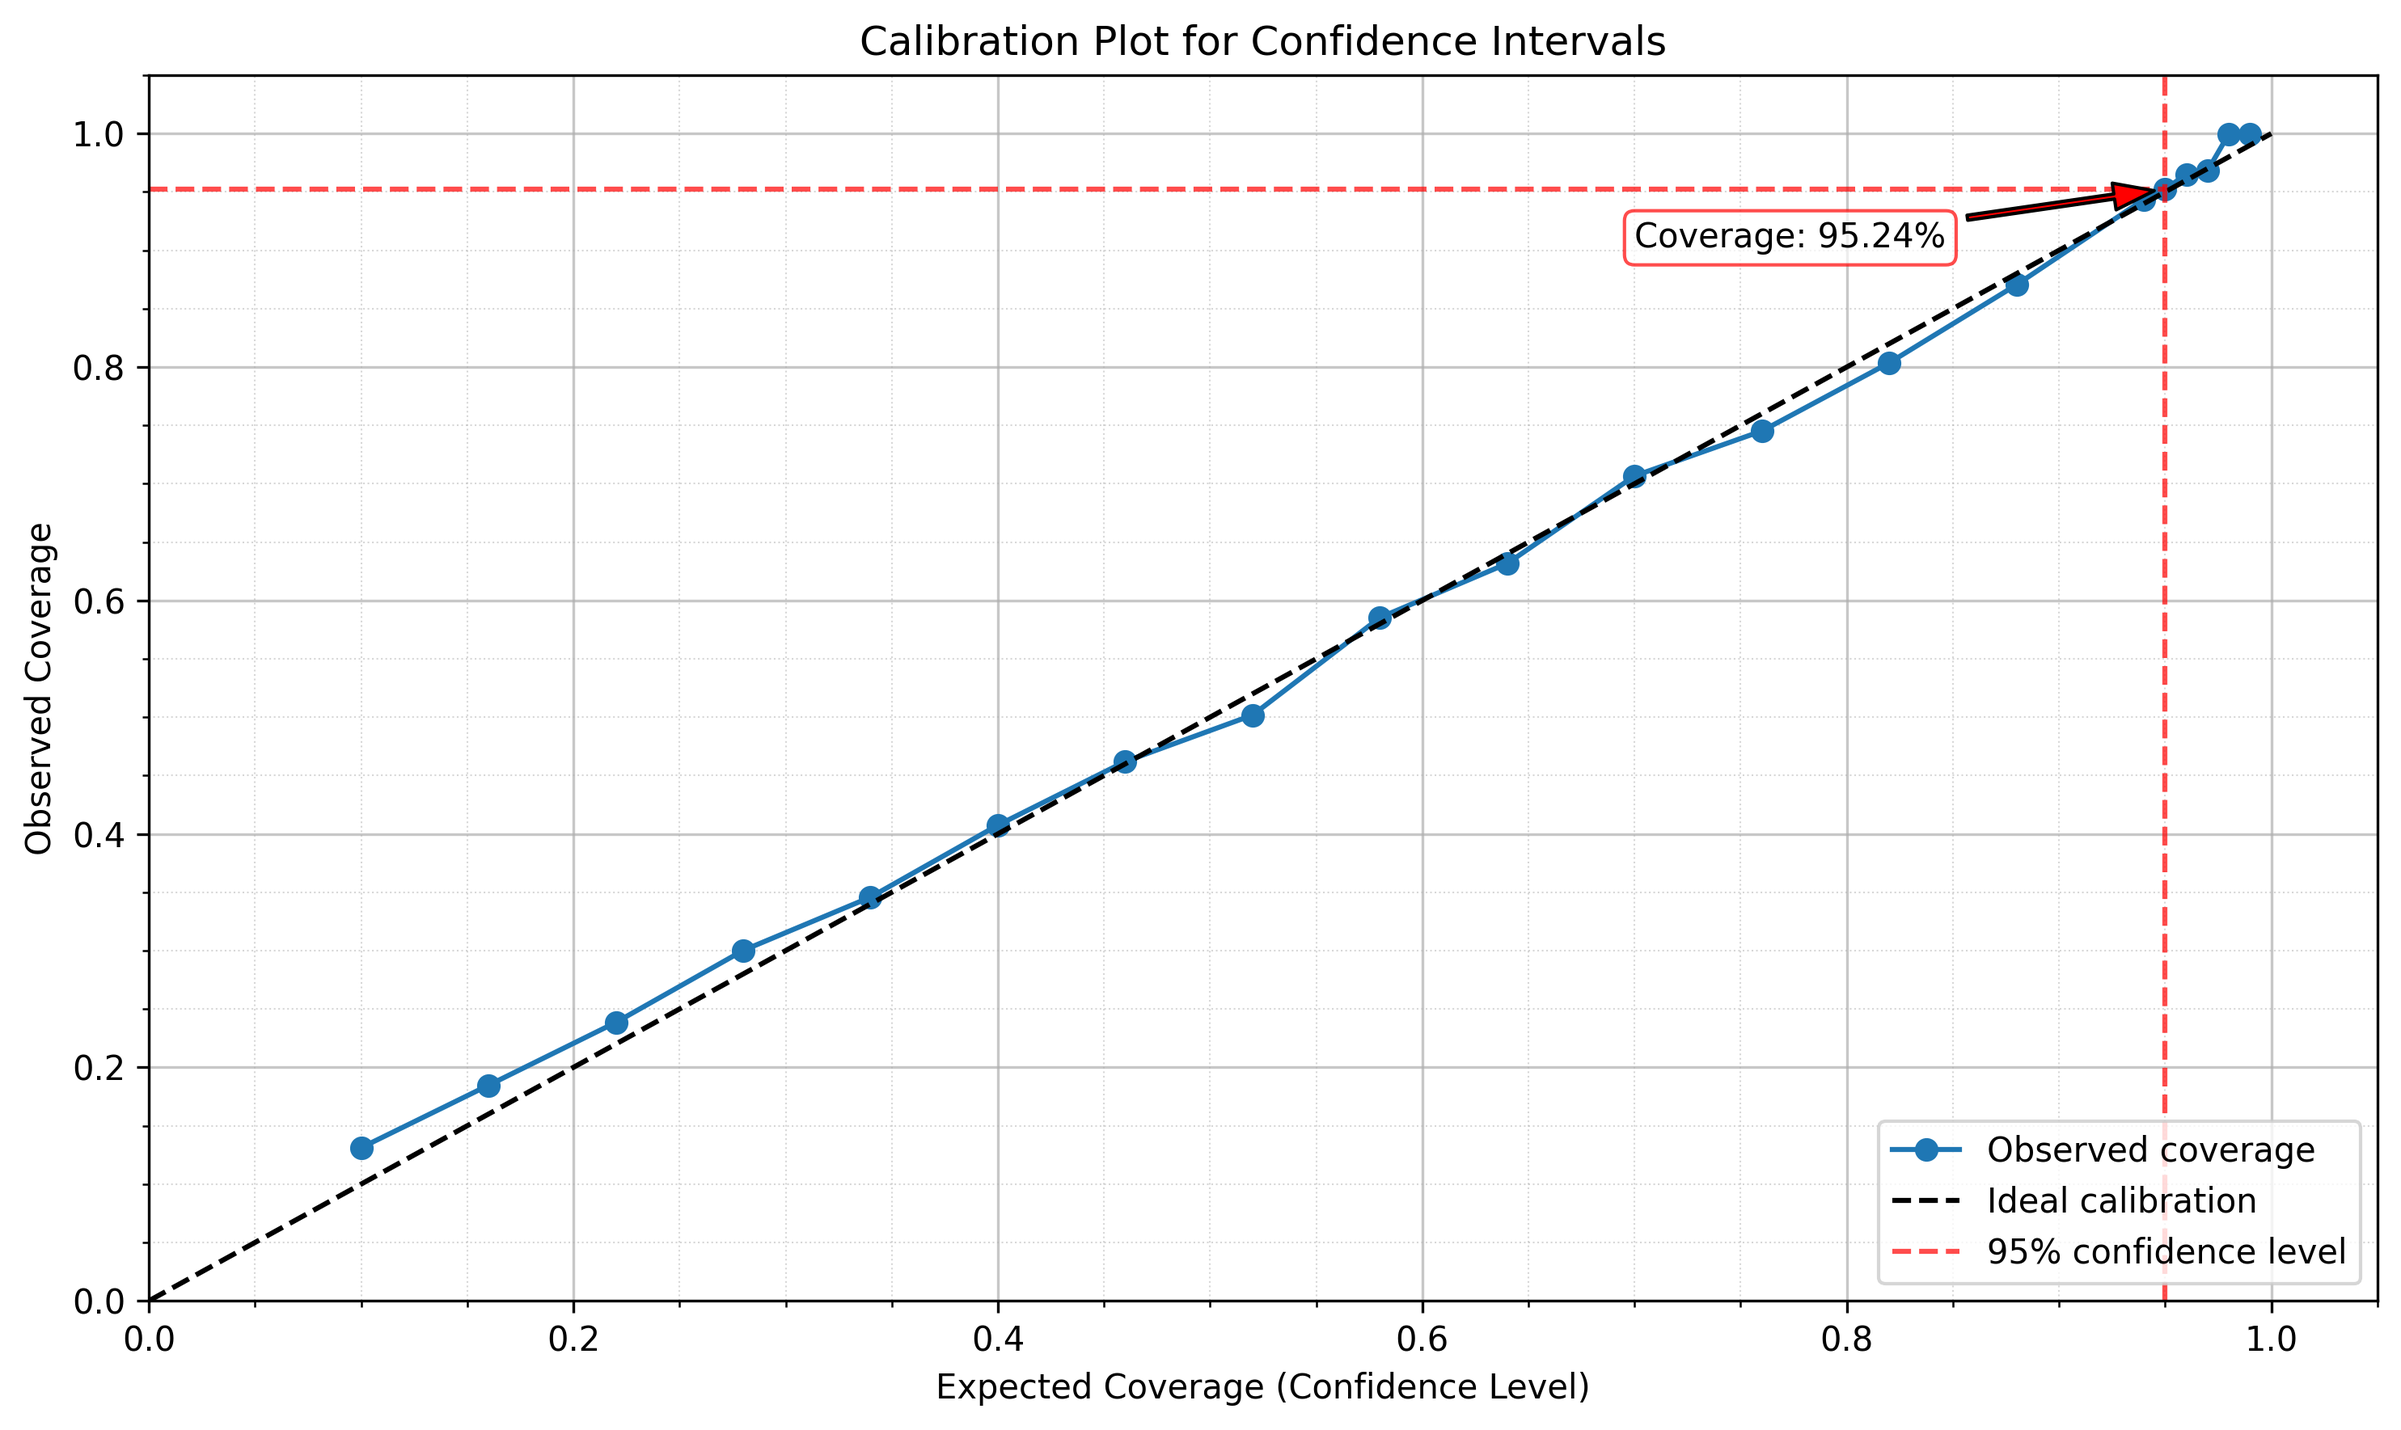
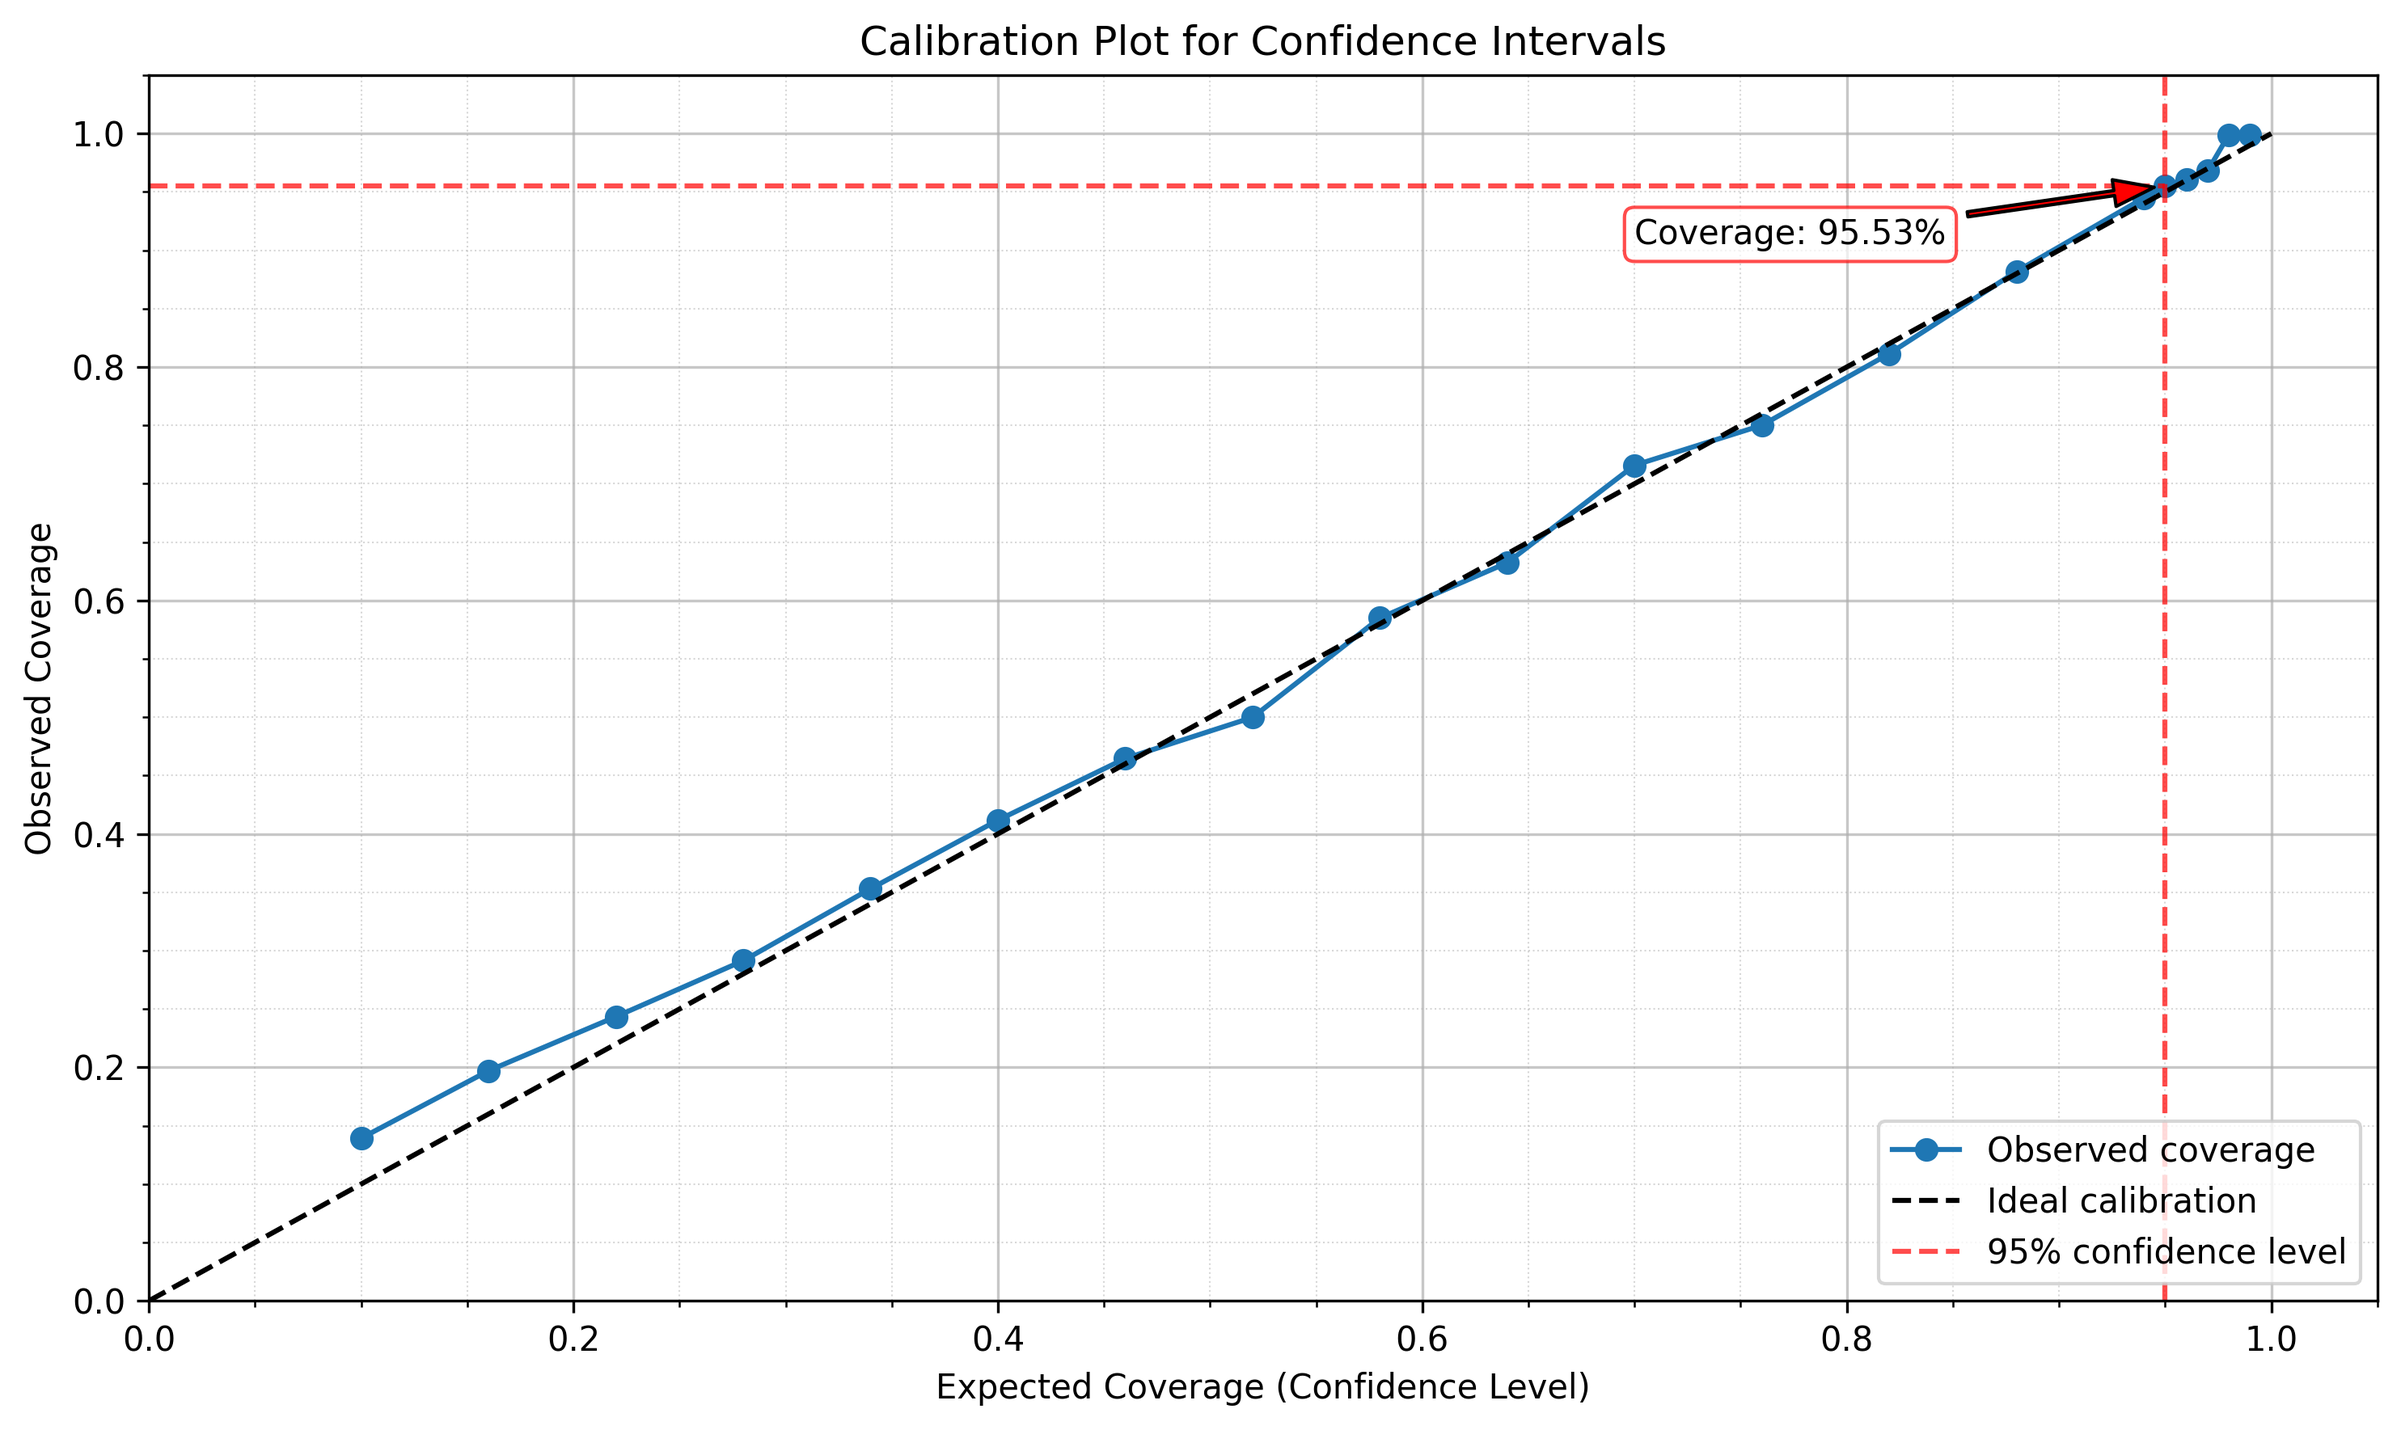
Apply log transformation to target

diff --git a/prob_gbt/example.py b/prob_gbt/example.py
@@ -22,31 +22,66 @@ def main():
     
     # Split the data into features and target
     X = housing_df.drop('median_house_value', axis=1)
-    y = np.array(housing_df['median_house_value'])
+    y_raw = np.array(housing_df['median_house_value'])
+    
+    # Apply log transformation to the target variable to ensure positive predictions
+    print("Applying log transformation to house prices...")
+    y = np.log1p(y_raw)  # log1p is log(1+x) which handles zero values gracefully
     
     # Convert 'ocean_proximity' to categorical codes
-    X['ocean_proximity'] = X['ocean_proximity'].astype('category').cat.codes
+    X['ocean_proximity'] = X['ocean_proximity'].astype('category').cat.codes.astype(int)  # Ensure integer type
     
     # Define categorical features
     cat_features = ['ocean_proximity']
 
     # Split the data into train, validation, and test sets
-    X_train, X_temp, y_train, y_temp = train_test_split(X, y, test_size=0.3, random_state=1234)
-    X_val, X_test, y_val, y_test = train_test_split(X_temp, y_temp, test_size=0.5, random_state=1234)
+    # Add index as a column to track samples (preserves data types)
+    X = X.reset_index(drop=True)  # Reset index to ensure it starts from 0
+    X_index = X.copy()
+    X_index['original_index'] = X_index.index
+    
+    # Split data with indices
+    X_train_idx, X_temp_idx, y_train, y_temp = train_test_split(
+        X_index, y, test_size=0.3, random_state=1234)
+    X_val_idx, X_test_idx, y_val, y_test = train_test_split(
+        X_temp_idx, y_temp, test_size=0.5, random_state=1234)
+    
+    # Extract indices
+    train_indices = X_train_idx['original_index'].values
+    val_indices = X_val_idx['original_index'].values
+    test_indices = X_test_idx['original_index'].values
+    
+    # Remove index column
+    X_train = X_train_idx.drop('original_index', axis=1)
+    X_val = X_val_idx.drop('original_index', axis=1)
+    X_test = X_test_idx.drop('original_index', axis=1)
+    
+    # Verify categorical feature is still integer type
+    if X_train['ocean_proximity'].dtype != 'int64' and X_train['ocean_proximity'].dtype != 'int32':
+        print("Warning: Converting ocean_proximity back to int type")
+        X_train['ocean_proximity'] = X_train['ocean_proximity'].astype(int)
+        X_val['ocean_proximity'] = X_val['ocean_proximity'].astype(int)
+        X_test['ocean_proximity'] = X_test['ocean_proximity'].astype(int)
+    
+    # Get the corresponding raw target values
+    y_raw_train = y_raw[train_indices]
+    y_raw_val = y_raw[val_indices]
+    y_raw_test = y_raw[test_indices]
 
     print(f"Training set: {X_train.shape[0]} samples")
     print(f"Validation set: {X_val.shape[0]} samples")
     print(f"Test set: {X_test.shape[0]} samples")
+    print(f"Categorical feature types: {X_train[cat_features].dtypes.to_dict()}")
 
     # Initialize and train the ProbGBT model
     print("\nTraining ProbGBT model...")
     model = ProbGBT(
         num_quantiles=100,
-        iterations=1000, # If not calibrated, use less iterations to reduce overfitting
+        iterations=1000,
         subsample=1.0,
         random_seed=1234,
-        calibrate=True, # Enable conformal calibration (uses some of the training data to calibrate the model), 
-        train_separate_models=False # Train a single model for all quantiles
+        calibrate=True, 
+        train_separate_models=False
     )
 
     model.train(
@@ -54,44 +89,51 @@ def main():
         y_train, 
         cat_features=cat_features, 
         eval_set=(X_val, y_val), 
-        calibration_set=None, # Automatically use 20% of training data for calibration
+        calibration_set=None, 
         use_best_model=True, 
         verbose=True
     )
 
-    # Make predictions
-    # Define smoothing method
-    smoothing_method = 'gmm' # Use GMM smoothing on top of spline for better curves (spline by default)
+    # Define smoothing method for all predictions
+    smoothing_method = 'gmm'  # Use GMM smoothing on top of spline for better curves
 
+    # Make predictions in log space
     print("\nMaking predictions...")
-    y_pred = model.predict(X_test)
-
-    # Calculate RMSE and MAE for the point predictions
-    rmse = np.sqrt(np.mean((y_test - y_pred) ** 2))
-    mae = np.mean(np.abs(y_test - y_pred))
-    print(f"Point predictions from PDF median:")
+    y_pred_log = model.predict(X_test)
+    
+    # Convert predictions back to original scale
+    y_pred = np.expm1(y_pred_log)
+    
+    # Calculate RMSE and MAE for the point predictions on original scale
+    rmse = np.sqrt(np.mean((y_raw_test - y_pred) ** 2))
+    mae = np.mean(np.abs(y_raw_test - y_pred))
+    print(f"Point predictions from PDF median (back-transformed):")
     print(f"Root Mean Squared Error (RMSE): {rmse:.2f}")
     print(f"Mean Absolute Error (MAE): {mae:.2f}")
 
-    # Predict confidence intervals
+    # Predict confidence intervals in log space
     print("\nPredicting confidence intervals...")
-    lower_bounds, upper_bounds = model.predict_interval(X_test, confidence_level=0.95, method=smoothing_method)
+    lower_bounds_log, upper_bounds_log = model.predict_interval(X_test, confidence_level=0.95, method=smoothing_method)
+    
+    # Transform bounds back to original scale
+    lower_bounds = np.expm1(lower_bounds_log)
+    upper_bounds = np.expm1(upper_bounds_log)
     
     # Plot predictions vs actual for a subset of test samples
     print("\nPlotting predictions vs actual values...")
-    sample_indices = np.random.choice(len(y_test), size=10, replace=False)
+    sample_indices = np.random.choice(len(y_raw_test), size=10, replace=False)
 
     plt.figure(figsize=(12, 8))
-    plt.scatter(y_test, y_pred, alpha=0.5, label='All predictions')
-    plt.scatter(y_test[sample_indices], y_pred[sample_indices], color='red', label='Selected samples')
+    plt.scatter(y_raw_test, y_pred, alpha=0.5, label='All predictions')
+    plt.scatter(y_raw_test[sample_indices], y_pred[sample_indices], color='red', label='Selected samples')
 
     for i in sample_indices:
-        plt.plot([y_test[i], y_test[i]], [lower_bounds[i], upper_bounds[i]], 'r-', alpha=0.7)
+        plt.plot([y_raw_test[i], y_raw_test[i]], [lower_bounds[i], upper_bounds[i]], 'r-', alpha=0.7)
 
     plt.xlabel('Actual House Price')
     plt.ylabel('Predicted House Price')
     plt.title('ProbGBT: Predicted vs Actual California House Prices with 95% Confidence Intervals')
-    plt.plot([y_test.min(), y_test.max()], [y_test.min(), y_test.max()], 'k--', label='Perfect prediction')
+    plt.plot([y_raw_test.min(), y_raw_test.max()], [y_raw_test.min(), y_raw_test.max()], 'k--', label='Perfect prediction')
     plt.legend()
     plt.grid(True)
     plt.savefig('./images/predictions_vs_actual.png', dpi=300, bbox_inches='tight')
@@ -100,20 +142,31 @@ def main():
     # Plot PDF for a single example
     print("\nPlotting probability density function for a single example...")
     sample_idx = sample_indices[0]
-    pdfs = model.predict_pdf(X_test.iloc[[sample_idx]], method=smoothing_method)
-    x_values, pdf_values = pdfs[0]
-
+    
+    pdfs_log = model.predict_pdf(X_test.iloc[[sample_idx]], method=smoothing_method)
+    x_values_log, pdf_values_log = pdfs_log[0]
+    
+    # Transform x-values back to original scale
+    x_values = np.expm1(x_values_log)
+    
+    # The PDF transformation formula is:
+    # pdf_new(y) = pdf_old(log1p(y)) * d/dy(log1p(y))
+    # where d/dy(log1p(y)) = 1/(1+y)
+    pdf_values = pdf_values_log / (1 + x_values)
+    
     plt.figure(figsize=(10, 6))
     plt.plot(x_values, pdf_values, label='Predicted PDF')
-    plt.axvline(x=y_test[sample_idx], color='r', linestyle='--', label='Actual value')
+    plt.axvline(x=y_raw_test[sample_idx], color='r', linestyle='--', label='Actual value')
     plt.axvline(x=y_pred[sample_idx], color='g', linestyle='--', label='Predicted value')
-    plt.fill_between(x_values, pdf_values, where=(x_values >= lower_bounds[sample_idx]) & (x_values <= upper_bounds[sample_idx]), 
+    plt.fill_between(x_values, pdf_values, 
+                    where=(x_values >= lower_bounds[sample_idx]) & (x_values <= upper_bounds[sample_idx]), 
                     alpha=0.3, color='blue', label='95% Confidence Interval')
     
-    # Set y-axis limit to 1e-4 if there are values higher than that
+    # Set y-axis limit to improve visualization
+    plt.ylim(bottom=0)
     y_max = np.max(pdf_values)
     if y_max > 1e-4:
-        plt.ylim(0, 1e-4)
+        plt.ylim(top=min(y_max*1.1, 1e-4))
     
     plt.xlabel('House Price')
     plt.ylabel('Probability Density')
@@ -128,7 +181,7 @@ def main():
     # 1. Multiple PDFs with different characteristics
     print("\nPlotting multiple PDFs with different characteristics...")
     # Select samples with different characteristics (low, medium, high prices)
-    sorted_indices = np.argsort(y_test)
+    sorted_indices = np.argsort(y_raw_test)
     diverse_indices = [
         sorted_indices[len(sorted_indices) // 10],  # Low price
         sorted_indices[len(sorted_indices) // 2],   # Medium price
@@ -140,26 +193,33 @@ def main():
     # Plot each distribution separately with correct data
     for i, idx in enumerate(diverse_indices):
         # Get PDF for this specific sample
-        sample_pdfs = model.predict_pdf(X_test.iloc[[idx]], method=smoothing_method)
-        x_vals, pdf_vals = sample_pdfs[0]
+        sample_pdfs_log = model.predict_pdf(X_test.iloc[[idx]], method=smoothing_method)
+        x_vals_log, pdf_vals_log = sample_pdfs_log[0]
         
-        # Get prediction (median) for this sample
+        # Transform x-values back to original scale
+        x_vals = np.expm1(x_vals_log)
+        
+        # Adjust PDF values for the change of variable
+        pdf_vals = pdf_vals_log / (1 + x_vals)
+        
+        # Get prediction for this sample
         pred_val = y_pred[idx]
         
         # Plot the distribution and vertical lines
         axes[i].plot(x_vals, pdf_vals, label='PDF')
-        axes[i].axvline(x=y_test[idx], color='r', linestyle='--', label='Actual')
+        axes[i].axvline(x=y_raw_test[idx], color='r', linestyle='--', label='Actual')
         axes[i].axvline(x=pred_val, color='g', linestyle='--', label='Predicted')
         
         # Fill the 95% confidence interval
         axes[i].fill_between(x_vals, pdf_vals, 
-                           where=(x_vals >= lower_bounds[idx]) & (x_vals <= upper_bounds[idx]), 
-                           alpha=0.3, color='blue', label='95% CI')
+                          where=(x_vals >= lower_bounds[idx]) & (x_vals <= upper_bounds[idx]), 
+                          alpha=0.3, color='blue', label='95% CI')
         
-        # Set y-axis limit to 1e-4 if there are values higher than that
+        # Set y-axis limits for better visualization
+        axes[i].set_ylim(bottom=0)
         y_max = np.max(pdf_vals)
         if y_max > 1e-4:
-            axes[i].set_ylim(0, 1e-4)
+            axes[i].set_ylim(top=min(y_max*1.1, 1e-4))
         
         price_category = "Low" if i == 0 else "Medium" if i == 1 else "High"
         axes[i].set_title(f'{price_category} Price Example')
@@ -183,14 +243,14 @@ def main():
         print(f"WARNING: Found {len(invalid_indices)} samples with negative confidence interval widths!")
         for idx in invalid_indices:
             print(f"Sample {idx}: Lower bound ({lower_bounds[idx]:.2f}) > Upper bound ({upper_bounds[idx]:.2f})")
-            print(f"  Actual value: {y_test[idx]:.2f}, Predicted value: {y_pred[idx]:.2f}")
+            print(f"  Actual value: {y_raw_test[idx]:.2f}, Predicted value: {y_pred[idx]:.2f}")
             # Fix by swapping lower and upper bounds for this sample
             lower_bounds[idx], upper_bounds[idx] = upper_bounds[idx], lower_bounds[idx]
         
         # Recalculate widths after fixing
         ci_widths = upper_bounds - lower_bounds
     
-    prediction_errors = np.abs(y_test - y_pred)
+    prediction_errors = np.abs(y_raw_test - y_pred)
     
     plt.figure(figsize=(10, 6))
     plt.scatter(ci_widths, prediction_errors, alpha=0.5)
@@ -270,7 +330,7 @@ def main():
     
     # Calculate coverage from intervals (using the direct interval method)
     print("\nCalculating confidence interval coverage...")
-    coverage = np.mean((y_test >= lower_bounds) & (y_test <= upper_bounds))
+    coverage = np.mean((y_raw_test >= lower_bounds) & (y_raw_test <= upper_bounds))
     print(f"95% Confidence Interval Coverage: {coverage:.2%}")
     
     # 4. Calibration plot - checking if confidence intervals are well-calibrated
@@ -285,12 +345,16 @@ def main():
     print("Calculating coverage for different confidence levels...")
     for conf_level in tqdm(confidence_levels, desc="Evaluating confidence levels"):
         # Get interval bounds for this confidence level using the same method
-        lower, upper = model.predict_interval(X_test, confidence_level=conf_level, method=smoothing_method)
+        lower_log, upper_log = model.predict_interval(X_test, confidence_level=conf_level, method=smoothing_method)
+        
+        # Transform bounds back to original scale
+        lower = np.expm1(lower_log)
+        upper = np.expm1(upper_log)
         
         # Calculate coverage
-        coverage = np.mean((y_test >= lower) & (y_test <= upper))
+        coverage = np.mean((y_raw_test >= lower) & (y_raw_test <= upper))
+        print(f"Coverage for {conf_level:.2f}: {coverage:.2%}")
         observed_coverages.append(coverage)
-        print(f"Coverage for {conf_level}: {coverage:.2%}")
     
     plt.figure(figsize=(10, 6))
     plt.plot(confidence_levels, observed_coverages, 'o-', label='Observed coverage')
@@ -338,3 +402,4 @@ if __name__ == "__main__":
     # Add the parent directory to the path to make imports work when run directly
     sys.path.insert(0, os.path.abspath(os.path.join(os.path.dirname(__file__), '..')))
     main() 
+    
